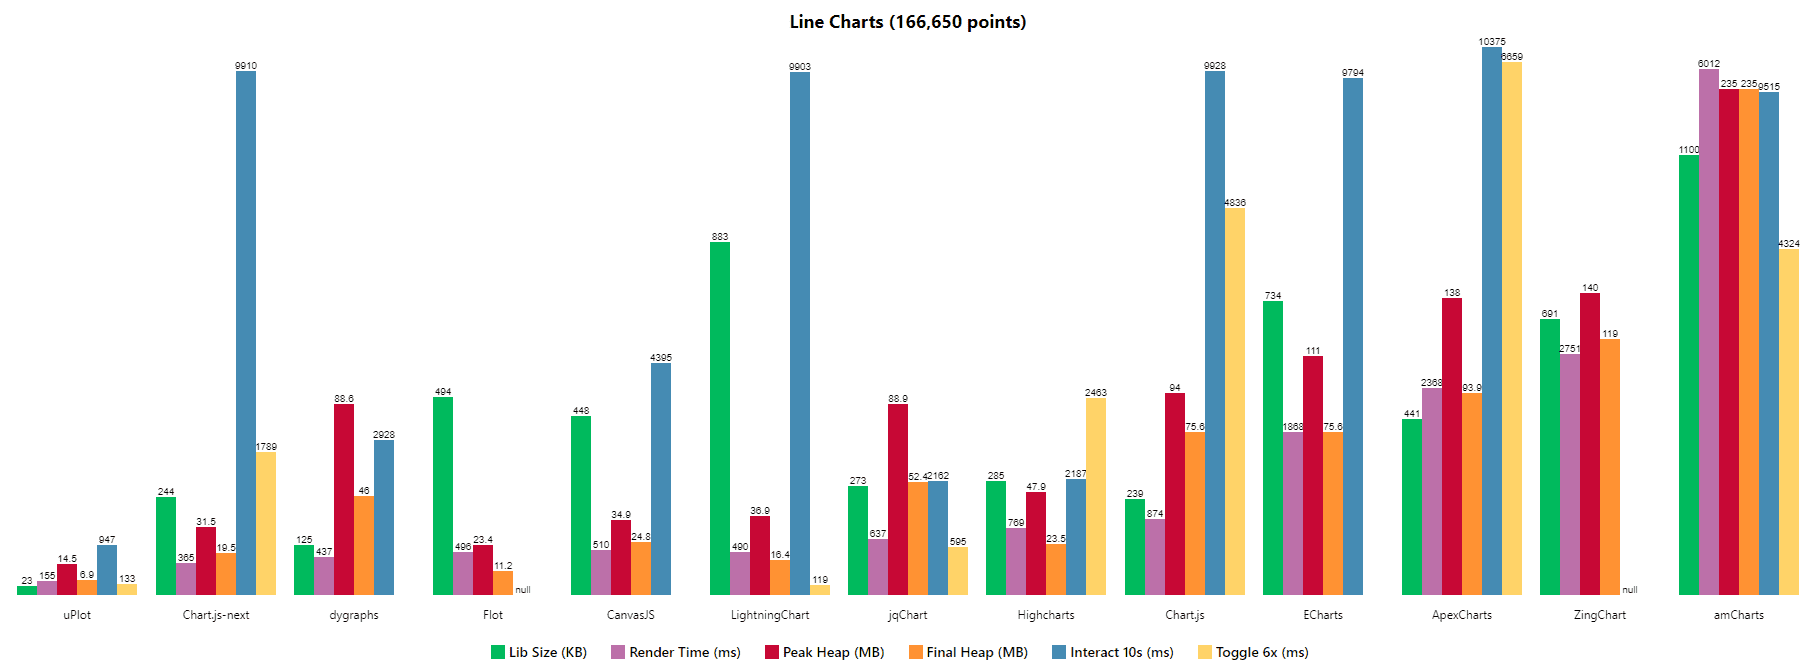
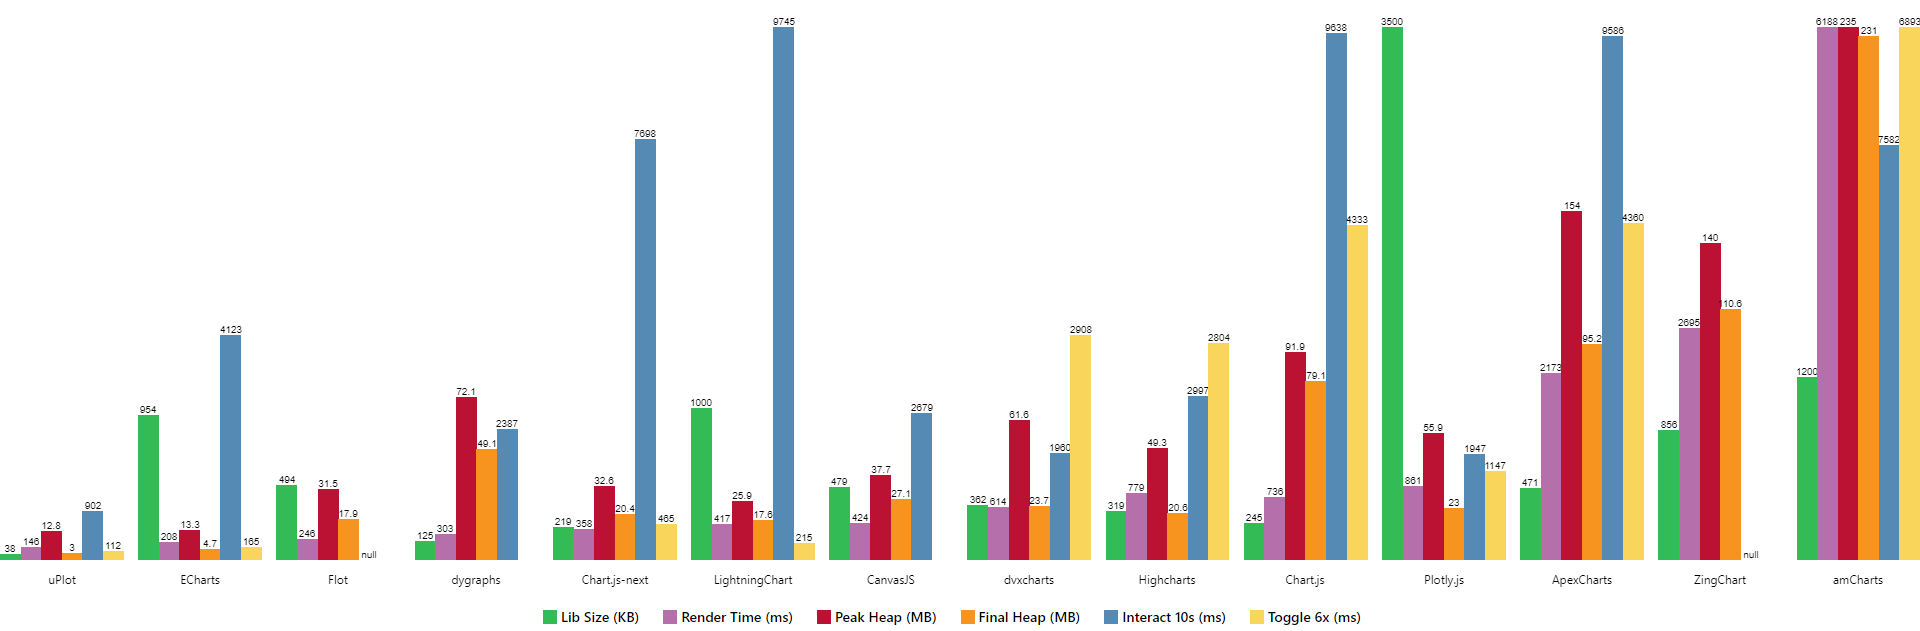
benchmarks update (2020-12-25)

diff --git a/README.md b/README.md
@@ -59,9 +59,9 @@ Additionally, an ever-expanding collection of runnable [/demos](https://leeoniya
 
 Benchmarks done on a ThinkPad T480S:
 
-- Date: 2020-09-18
-- Windows 10 x64, Chrome 85.0.4183.102 (Official Build) (64-bit)
-- Core i5-8350U @ 1.70GHz, 8GB RAM
+- Date: 2020-12-25
+- Windows 10 x64, Chrome 87.0.4280.88 (Official Build) (64-bit)
+- Core i5-8350U @ 1.70GHz, 16GB RAM
 - Intel HD 620 GPU, 2560x1440 res
 
 ![uPlot Performance](perf.png "uPlot Performance")
@@ -73,20 +73,20 @@ Raw data: https://github.com/leeoniya/uPlot/blob/master/bench/results.json
 <pre>
 | lib            | size    | done    | js,rend,paint,sys | heap peak,final | interact (10s)      |
 | -------------- | ------- | ------- | ----------------- | --------------- | ------------------- |
-| <a href="https://leeoniya.github.io/uPlot/bench/uPlot.html">uPlot</a>          |   28 KB |   65 ms |   99   5   1   67 |  15 MB   3 MB   |  198  371  129  237 |
-| <a href="https://leeoniya.github.io/uPlot/bench/Chart.js-next.html">Chart.js-next</a>  |  229 KB |  235 ms |  289   2   1   95 |  32 MB  20 MB   | 3604   34   46 6125 |
-| <a href="https://leeoniya.github.io/uPlot/bench/LightningChart.html">LightningChart</a> |  931 KB |  --- ms |  356   3   1   70 |  26 MB  20 MB   | 9114   65   55  272 |
-| <a href="https://leeoniya.github.io/uPlot/bench/dygraphs.html">dygraphs</a>       |  125 KB |  185 ms |  260   4   2  171 |  93 MB  48 MB   | 2294  241  114  404 |
-| <a href="https://leeoniya.github.io/uPlot/bench/CanvasJS.html">CanvasJS</a>       |  479 KB |  323 ms |  378   5   1   93 |  40 MB  25 MB   | 2173  457  119  397 |
-| <a href="https://leeoniya.github.io/uPlot/bench/Flot.html">Flot</a>           |  494 KB |  334 ms |  202   7   2  283 |  24 MB  19 MB   | ---                 |
-| <a href="https://leeoniya.github.io/uPlot/bench/dvxcharts.html">dvxcharts</a>      |  369 KB |  326 ms |  585  34   2   62 |  62 MB  26 MB   | 1394  717  204  270 |
-| <a href="https://leeoniya.github.io/uPlot/bench/Highcharts.html">Highcharts</a>     |  384 KB |  --- ms |  748   9   2   75 |  49 MB  21 MB   | 2012  725  217  317 |
-| <a href="https://leeoniya.github.io/uPlot/bench/Chart.js.html">Chart.js</a>       |  245 KB |  654 ms |  718   4   2  164 | 101 MB  85 MB   | 5550    5    7 4020 |
-| <a href="https://leeoniya.github.io/uPlot/bench/Plotly.js.html">Plotly.js</a>      | 3400 KB |  465 ms |  828   7   1   83 |  50 MB  28 MB   | 1507  229   53  177 |
-| <a href="https://leeoniya.github.io/uPlot/bench/ECharts.html">ECharts</a>        |  785 KB |  --- ms |  718   6   7 1120 | 116 MB  77 MB   | 2016   70   25 7856 |
-| <a href="https://leeoniya.github.io/uPlot/bench/ApexCharts.html">ApexCharts</a>     |  460 KB |  --- ms | 2137  28   3   73 | 170 MB  97 MB   | 2030  220   28  122 |
-| <a href="https://leeoniya.github.io/uPlot/bench/ZingChart.html">ZingChart</a>      |  857 KB | 2535 ms | 2711   7   1   66 | 143 MB  85 MB   | ---                 |
-| <a href="https://leeoniya.github.io/uPlot/bench/amCharts.html">amCharts</a>       | 1200 KB | 5825 ms | 7509  47  13   78 | 256 MB 256 MB   | 6932 1288  282  512 |
+| <a href="https://leeoniya.github.io/uPlot/bench/uPlot.html">uPlot</a>          |   38 KB |   65 ms |   93   2   1   50 |  13 MB   3 MB   |  167  384  128  223 |
+| <a href="https://leeoniya.github.io/uPlot/bench/ECharts.html">ECharts</a>        |  954 KB |  114 ms |  149   2   2   55 |  13 MB   5 MB   | 2783  495  147  698 |
+| <a href="https://leeoniya.github.io/uPlot/bench/Flot.html">Flot</a>           |  494 KB |  110 ms |  166   5   2   73 |  32 MB  18 MB   | ---                 |
+| <a href="https://leeoniya.github.io/uPlot/bench/dygraphs.html">dygraphs</a>       |  125 KB |  155 ms |  200   4   1   98 |  72 MB  49 MB   | 1663  237  113  374 |
+| <a href="https://leeoniya.github.io/uPlot/bench/Chart.js-next.html">Chart.js-next</a>  |  219 KB |  250 ms |  290   2   1   65 |  33 MB  20 MB   | 6256   50   79 1313 |
+| <a href="https://leeoniya.github.io/uPlot/bench/LightningChart.html">LightningChart</a> | 1000 KB |  --- ms |  359   3   1   54 |  26 MB  18 MB   | 9308   87   71  279 |
+| <a href="https://leeoniya.github.io/uPlot/bench/CanvasJS.html">CanvasJS</a>       |  479 KB |  292 ms |  340   3   1   80 |  38 MB  27 MB   | 1782  431  112  354 |
+| <a href="https://leeoniya.github.io/uPlot/bench/dvxcharts.html">dvxcharts</a>      |  362 KB |  310 ms |  518  26   2   68 |  62 MB  24 MB   | 1033  592  146  189 |
+| <a href="https://leeoniya.github.io/uPlot/bench/Highcharts.html">Highcharts</a>     |  319 KB |  --- ms |  717   8   2   52 |  49 MB  21 MB   | 1849  682  192  274 |
+| <a href="https://leeoniya.github.io/uPlot/bench/Chart.js.html">Chart.js</a>       |  245 KB |  616 ms |  661   3   2   70 |  92 MB  79 MB   | 8471    6    9 1152 |
+| <a href="https://leeoniya.github.io/uPlot/bench/Plotly.js.html">Plotly.js</a>      | 3500 KB |  449 ms |  769   8   2   82 |  56 MB  23 MB   | 1522  201   52  172 |
+| <a href="https://leeoniya.github.io/uPlot/bench/ApexCharts.html">ApexCharts</a>     |  471 KB |  --- ms | 2070  25   2   76 | 154 MB  95 MB   | 8593  713  106  174 |
+| <a href="https://leeoniya.github.io/uPlot/bench/ZingChart.html">ZingChart</a>      |  856 KB | 2476 ms | 2640   7   1   47 | 140 MB 111 MB   | ---                 |
+| <a href="https://leeoniya.github.io/uPlot/bench/amCharts.html">amCharts</a>       | 1200 KB | 5564 ms | 6057  40  11   80 | 235 MB 231 MB   | 6309  650  248  375 |
 </pre>
 
 - `size` includes the lib itself plus any dependencies required to render the benchmark, e.g. Moment, jQuery, etc.

diff --git a/bench/table.md b/bench/table.md
@@ -1,16 +1,16 @@
 | lib            | size    | done    | js,rend,paint,sys | heap peak,final | interact (10s)      |
 | -------------- | ------- | ------- | ----------------- | --------------- | ------------------- |
-| <a href="https://leeoniya.github.io/uPlot/bench/uPlot.html">uPlot</a>          |   28 KB |   65 ms |   99   5   1   67 |  15 MB   3 MB   |  198  371  129  237 |
-| <a href="https://leeoniya.github.io/uPlot/bench/Chart.js-next.html">Chart.js-next</a>  |  229 KB |  235 ms |  289   2   1   95 |  32 MB  20 MB   | 3604   34   46 6125 |
-| <a href="https://leeoniya.github.io/uPlot/bench/LightningChart.html">LightningChart</a> |  931 KB |  --- ms |  356   3   1   70 |  26 MB  20 MB   | 9114   65   55  272 |
-| <a href="https://leeoniya.github.io/uPlot/bench/dygraphs.html">dygraphs</a>       |  125 KB |  185 ms |  260   4   2  171 |  93 MB  48 MB   | 2294  241  114  404 |
-| <a href="https://leeoniya.github.io/uPlot/bench/CanvasJS.html">CanvasJS</a>       |  479 KB |  323 ms |  378   5   1   93 |  40 MB  25 MB   | 2173  457  119  397 |
-| <a href="https://leeoniya.github.io/uPlot/bench/Flot.html">Flot</a>           |  494 KB |  334 ms |  202   7   2  283 |  24 MB  19 MB   | ---                 |
-| <a href="https://leeoniya.github.io/uPlot/bench/dvxcharts.html">dvxcharts</a>      |  369 KB |  326 ms |  585  34   2   62 |  62 MB  26 MB   | 1394  717  204  270 |
-| <a href="https://leeoniya.github.io/uPlot/bench/Highcharts.html">Highcharts</a>     |  384 KB |  --- ms |  748   9   2   75 |  49 MB  21 MB   | 2012  725  217  317 |
-| <a href="https://leeoniya.github.io/uPlot/bench/Chart.js.html">Chart.js</a>       |  245 KB |  654 ms |  718   4   2  164 | 101 MB  85 MB   | 5550    5    7 4020 |
-| <a href="https://leeoniya.github.io/uPlot/bench/Plotly.js.html">Plotly.js</a>      | 3400 KB |  465 ms |  828   7   1   83 |  50 MB  28 MB   | 1507  229   53  177 |
-| <a href="https://leeoniya.github.io/uPlot/bench/ECharts.html">ECharts</a>        |  785 KB |  --- ms |  718   6   7 1120 | 116 MB  77 MB   | 2016   70   25 7856 |
-| <a href="https://leeoniya.github.io/uPlot/bench/ApexCharts.html">ApexCharts</a>     |  460 KB |  --- ms | 2137  28   3   73 | 170 MB  97 MB   | 2030  220   28  122 |
-| <a href="https://leeoniya.github.io/uPlot/bench/ZingChart.html">ZingChart</a>      |  857 KB | 2535 ms | 2711   7   1   66 | 143 MB  85 MB   | ---                 |
-| <a href="https://leeoniya.github.io/uPlot/bench/amCharts.html">amCharts</a>       | 1200 KB | 5825 ms | 7509  47  13   78 | 256 MB 256 MB   | 6932 1288  282  512 |
+| <a href="https://leeoniya.github.io/uPlot/bench/uPlot.html">uPlot</a>          |   38 KB |   65 ms |   93   2   1   50 |  13 MB   3 MB   |  167  384  128  223 |
+| <a href="https://leeoniya.github.io/uPlot/bench/ECharts.html">ECharts</a>        |  954 KB |  114 ms |  149   2   2   55 |  13 MB   5 MB   | 2783  495  147  698 |
+| <a href="https://leeoniya.github.io/uPlot/bench/Flot.html">Flot</a>           |  494 KB |  110 ms |  166   5   2   73 |  32 MB  18 MB   | ---                 |
+| <a href="https://leeoniya.github.io/uPlot/bench/dygraphs.html">dygraphs</a>       |  125 KB |  155 ms |  200   4   1   98 |  72 MB  49 MB   | 1663  237  113  374 |
+| <a href="https://leeoniya.github.io/uPlot/bench/Chart.js-next.html">Chart.js-next</a>  |  219 KB |  250 ms |  290   2   1   65 |  33 MB  20 MB   | 6256   50   79 1313 |
+| <a href="https://leeoniya.github.io/uPlot/bench/LightningChart.html">LightningChart</a> | 1000 KB |  --- ms |  359   3   1   54 |  26 MB  18 MB   | 9308   87   71  279 |
+| <a href="https://leeoniya.github.io/uPlot/bench/CanvasJS.html">CanvasJS</a>       |  479 KB |  292 ms |  340   3   1   80 |  38 MB  27 MB   | 1782  431  112  354 |
+| <a href="https://leeoniya.github.io/uPlot/bench/dvxcharts.html">dvxcharts</a>      |  362 KB |  310 ms |  518  26   2   68 |  62 MB  24 MB   | 1033  592  146  189 |
+| <a href="https://leeoniya.github.io/uPlot/bench/Highcharts.html">Highcharts</a>     |  319 KB |  --- ms |  717   8   2   52 |  49 MB  21 MB   | 1849  682  192  274 |
+| <a href="https://leeoniya.github.io/uPlot/bench/Chart.js.html">Chart.js</a>       |  245 KB |  616 ms |  661   3   2   70 |  92 MB  79 MB   | 8471    6    9 1152 |
+| <a href="https://leeoniya.github.io/uPlot/bench/Plotly.js.html">Plotly.js</a>      | 3500 KB |  449 ms |  769   8   2   82 |  56 MB  23 MB   | 1522  201   52  172 |
+| <a href="https://leeoniya.github.io/uPlot/bench/ApexCharts.html">ApexCharts</a>     |  471 KB |  --- ms | 2070  25   2   76 | 154 MB  95 MB   | 8593  713  106  174 |
+| <a href="https://leeoniya.github.io/uPlot/bench/ZingChart.html">ZingChart</a>      |  856 KB | 2476 ms | 2640   7   1   47 | 140 MB 111 MB   | ---                 |
+| <a href="https://leeoniya.github.io/uPlot/bench/amCharts.html">amCharts</a>       | 1200 KB | 5564 ms | 6057  40  11   80 | 235 MB 231 MB   | 6309  650  248  375 |
